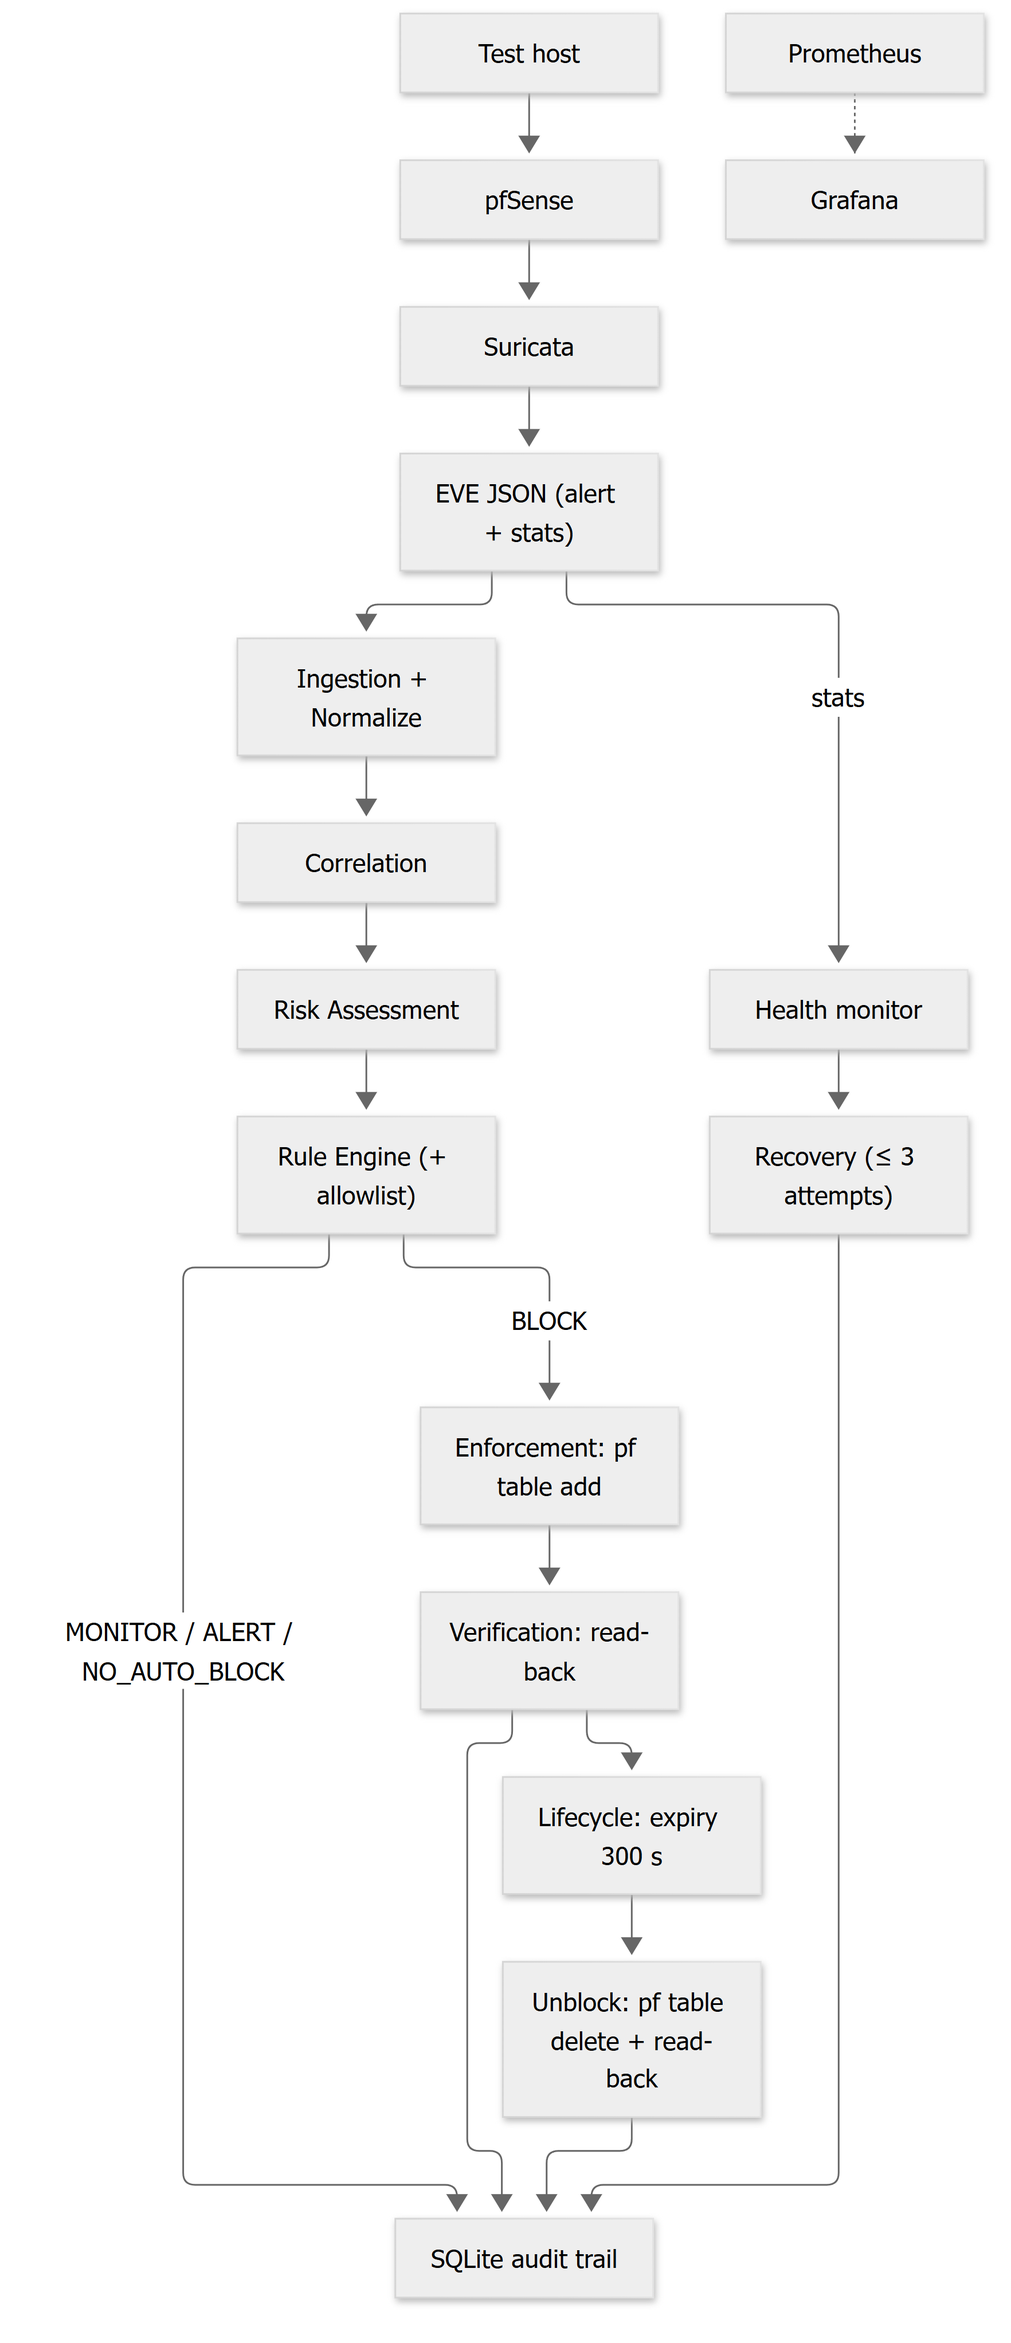
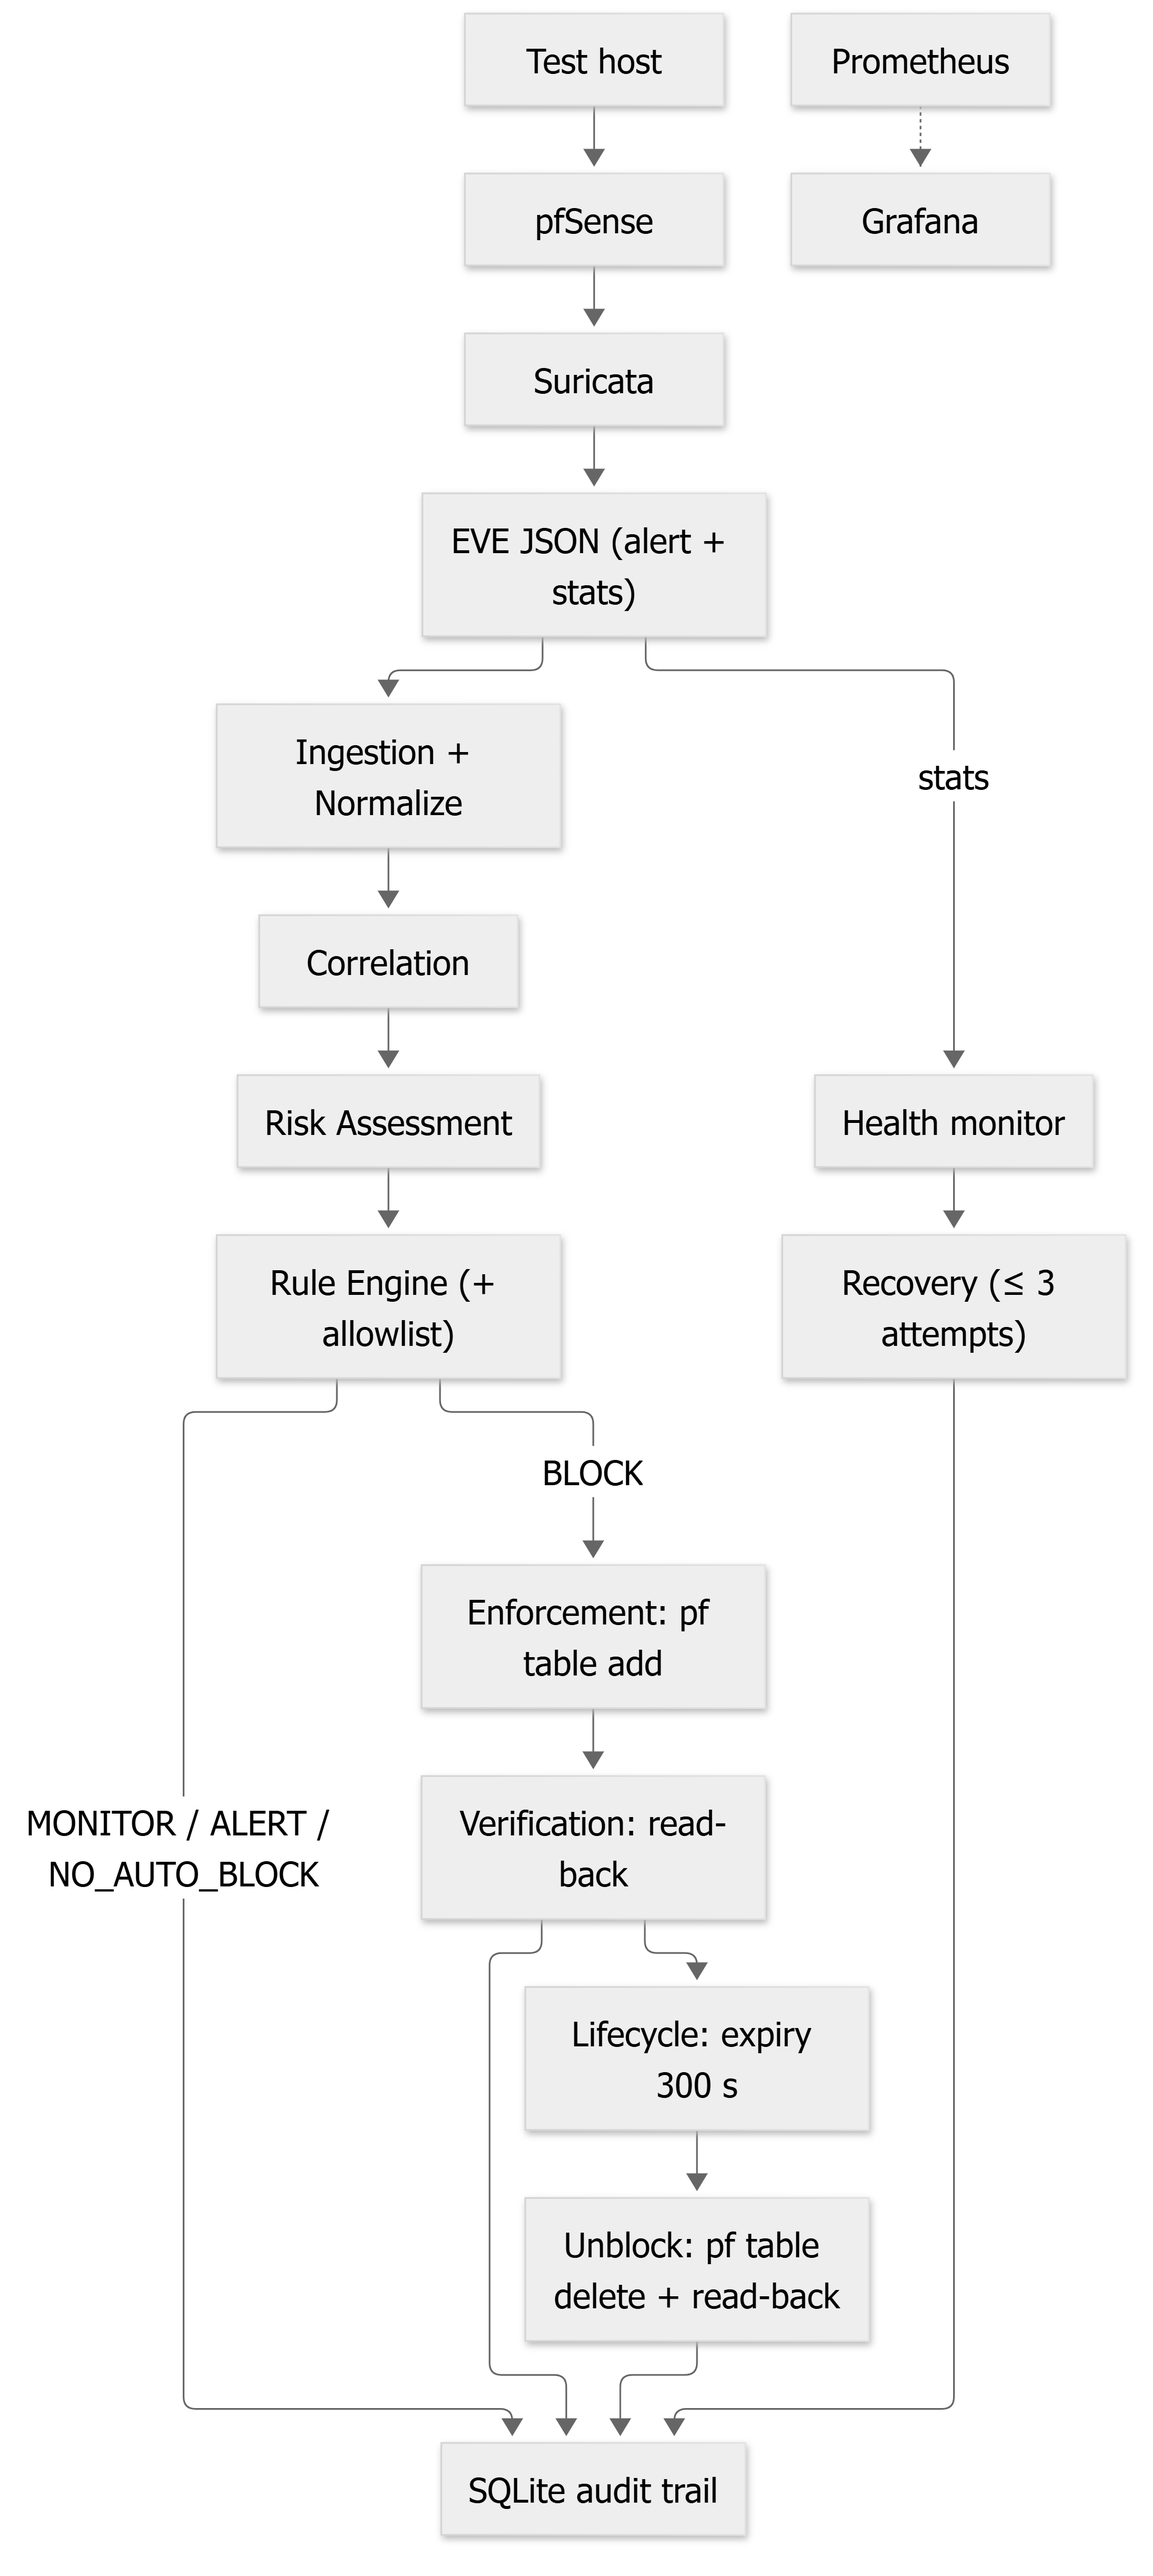
docs: add README and update chapter 6 wording and figure 3.1

diff --git a/README.md b/README.md
@@ -1,0 +1,98 @@
+# Project ITIS
+
+**Security Event Correlation + Risk-Based Automated Response + Security Service Recovery**
+(ระบบวิเคราะห์เหตุการณ์ด้านความปลอดภัยและตอบสนองต่อภัยคุกคามแบบอัตโนมัติโดยใช้การประเมินความเสี่ยงและการกู้คืนบริการด้านความปลอดภัย)
+
+ต้นแบบ (prototype) สำหรับห้องปฏิบัติการที่เชื่อม Suricata (IDS) กับ pfSense (firewall): อ่าน EVE JSON → correlation → risk assessment →
+rule engine → ปิดกั้นชั่วคราวผ่าน pf table พร้อม read-back verification → auto-unblock → audit trail ใน SQLite และตรวจ/กู้คืน Suricata
+เชิงฟังก์ชัน (retry ≤ 3)
+
+> **ไม่ใช่ระบบสำหรับใช้งานจริง (not production-ready)** ทดสอบในห้องปฏิบัติการเสมือนที่ควบคุมได้เท่านั้น ดูหัวข้อ "ข้อจำกัด" ท้ายไฟล์
+
+## โครงสร้าง repository — อะไรคืออะไร
+
+| กลุ่ม | path | หน้าที่ |
+|---|---|---|
+| **ระบบที่รันจริง (runtime)** | `run_phase4.py` | entry point ของ engine |
+| | `security_engine/` | ingestion, correlation, risk, rule engine, enforcement, lifecycle, audit, health/recovery |
+| | `config/` | `config.yaml` (ค่าระบบ), `rules.yaml` (กฎ), `allowlist.yaml`, `assets.yaml` |
+| | `.env.example` | ตัวอย่าง environment variable ที่ต้องตั้ง (ไม่เก็บข้อมูลการเชื่อมต่อใน repo) |
+| **ชุดทดสอบซอฟต์แวร์** | `tests/`, `conftest.py` | unit / integration tests (pytest) |
+| **เครื่องมือสำหรับการทดลอง** | `scripts/generate_test_events.py` | สร้าง EVE event สำหรับ T1–T11 (สร้าง input อย่างเดียว ไม่ตัดสินผล) |
+| | `run_experiment.py`, `analysis/` | synthetic runner และ analyzer ของช่วงพัฒนา (Phase 12) — ไม่ใช่ชุดข้อมูลหลักของรายงาน |
+| **หลักฐานการทดลอง (evidence)** | `docs/evidence/` | registry, validation, metrics, clock และหลักฐานต่อ run ของ T1–T11 (58 runs) |
+| | `experiments/results_step11.csv` | ผลต่อ run |
+| | `docs/test_plan.md` | experimental protocol ที่ล็อกไว้ก่อนทดลอง |
+| **รายงาน** | `docs/report/` | Markdown บทที่ 1–7 + ภาคผนวก, `short/` ฉบับย่อ, `dist/` ฉบับสมบูรณ์ (DOCX/PDF) |
+
+ฐานข้อมูลของการทดลอง (`data/step11_experiment.db`) และ log (`logs/`) **ไม่อยู่ใน repository** (อยู่ใน `.gitignore`)
+ไฟล์ฐานข้อมูลที่ freeze แล้วส่งแยก และตรวจความถูกต้องได้ด้วย SHA-256 ในภาคผนวก ก ของรายงานฉบับสมบูรณ์
[1 lines of base64/hex data omitted]
+
+## ความต้องการของระบบ
+
+- Python 3 (ทดสอบบน Python 3.14.5 เท่านั้น — ยังไม่ได้ทดสอบบน 3.10)
+- OpenSSH client และ SSH key-based authentication ไปยัง pfSense (ใช้ `ssh -T -o BatchMode=yes`)
+- สำหรับรัน engine จริง: pfSense (ห้องปฏิบัติการใช้ CE 2.7.2) ที่ติดตั้ง Suricata (7.0.8), เปิด EVE output และ "Perf Stats",
+  และมี pf table `ITIS_BLOCK_TEST` ที่กฎปิดกั้นอ้างถึง
+
+## ติดตั้ง
+
+```bash
+python -m venv .venv
+# Windows: .venv\Scripts\activate    Linux/macOS: source .venv/bin/activate
+pip install -r requirements.txt
+```
+
+`requirements.txt` มี PyYAML (runtime dependency เดียวของ engine) และ pytest, matplotlib (ใช้พัฒนา/วิเคราะห์เท่านั้น)
+
+## รันชุดทดสอบ (ไม่ต้องมีห้องปฏิบัติการ)
+
+```bash
+python -m pytest -q
+```
+
+ผลที่คาด: `828 passed, 10 skipped` — 10 รายการที่ skip คือ integration test ที่ต้องต่อ pfSense จริง ซึ่งทำงานเมื่อตั้ง `ITIS_PFSENSE_HOST` เท่านั้น
+ชุดทดสอบใช้ fake enforcer และ fake clock จึงไม่แตะ firewall จริง
+(ถ้า console ของ Windows แสดงภาษาไทยไม่ได้ ให้ตั้ง `PYTHONIOENCODING=utf-8`)
+
+## รัน engine (ต้องมีห้องปฏิบัติการ)
+
+1. ตั้งค่าเฉพาะเครื่องเป็น environment variable (ดู `.env.example`)
+
+   ```powershell
+   $env:ITIS_PFSENSE_HOST = "admin@<pfsense-ip>"                        # required
+   $env:ITIS_EVE_PATH     = "/var/log/suricata/<instance>/eve.json"     # optional: override eve.path
+   ```
+
+   ถ้าใช้ Git Bash บน Windows ต้อง `export MSYS_NO_PATHCONV=1` ก่อน มิฉะนั้น path ที่ขึ้นต้นด้วย `/` จะถูกแปลงเป็น path ของ Windows
+2. ตรวจค่าใน `config/config.yaml` (correlation window 10 s, min_events 5, block 300 s, `risk.weight_set`, `health.restart_command`, `system.db_path`)
+3. รัน
+
+   ```bash
+   python run_phase4.py                                   # โหมดปกติ
+   python run_phase4.py --test-id T4 --run-id T4-R03      # โหมดทดลอง: บันทึก experiment_timestamps (FR-15)
+   ```
+
+   ตรวจใน `logs/engine.log` ว่ามีบรรทัด "เริ่มอ่าน EVE จาก ..." และ path ถูกต้อง หยุด engine ด้วย Ctrl+C
+
+engine เป็นระบบที่**สั่ง firewall จริง** (เพิ่ม/ลบ IP ใน pf table) ให้ใช้กับห้องปฏิบัติการเท่านั้น และใส่ IP ที่ห้ามปิดกั้นใน `config/allowlist.yaml`
+
+## เครื่องมือสำหรับการทดลอง
+
+```bash
+python scripts/generate_test_events.py --list                        # รายการ scenario T1–T11
+python scripts/generate_test_events.py --test-id T4 --run 3 --spacing 0
+```
+
+การทดลองในรายงานใช้ controlled EVE injection: ส่ง output ของ generator ต่อท้ายไฟล์ EVE บน pfSense ผ่าน SSH ขณะที่ engine ทำงานอยู่
+ขั้นตอน เงื่อนไขก่อนทดลอง (P1–P8) และ mapping ของ run_id อยู่ใน `docs/test_plan.md` และบทที่ 5 ของรายงาน
+
+## ข้อจำกัดและหมายเหตุการใช้งาน
+
+- ประเมินในห้องปฏิบัติการเสมือนด้วย controlled EVE injection จาก source เดียว ผลไม่แทนประสิทธิภาพระดับ production
+- การยืนยันการปิดกั้นทำในระดับ pf table read-back ไม่ได้ทดสอบเส้นทางของทราฟฟิกโดยตรง
+- แบบจำลองความเสี่ยงเป็น weighted model ที่ออกแบบสำหรับการทดลอง ไม่ใช่มาตรฐานสากล และไม่ใช้ตัดสินการตอบสนอง (rule engine เป็นผู้ตัดสิน)
+- การกู้คืนไม่มีช่วงรอระหว่าง attempt เมื่อคำสั่ง restart ล้มเหลว
+- ไม่ได้ติดตั้ง Prometheus/Grafana จึงไม่มีการวัด overhead
+- ข้อจำกัดทั้งหมดอยู่ในหัวข้อ 6.8 ของรายงานฉบับสมบูรณ์

diff --git a/docs/report/chapter6-results.md b/docs/report/chapter6-results.md
@@ -25,7 +25,7 @@ T1–T10 รันบน revision `236ce70` ส่วน T11 รันบน `d0
 | T10b | 4 × HIGH ภายใน 10 s | MONITOR · ไม่มี block | บันทึก event 4 แถว (น้อยกว่า min_events = 5) · ไม่มี decision/action · pf table ว่าง | 5 | 5/5 PASS |
 | T11 | 5 × HIGH · Set A/B/C | score เปลี่ยนตาม weight set | ดูหัวข้อ 6.4 · RULE-001 BLOCK VERIFIED ทุกชุด | 3 | บันทึกครบ 3/3 |
 
-T1–T10 ได้ผลตาม expected ครบ 55/55 runs ส่วน T11 เป็น sensitivity analysis จึงไม่ตัดสิน pass/fail
+T1–T10 ให้ผลตรงตามเกณฑ์ที่กำหนดไว้ครบ 55/55 runs ส่วน T11 เป็น sensitivity analysis จึงไม่ตัดสิน pass/fail
 
 หมายเหตุ
 
